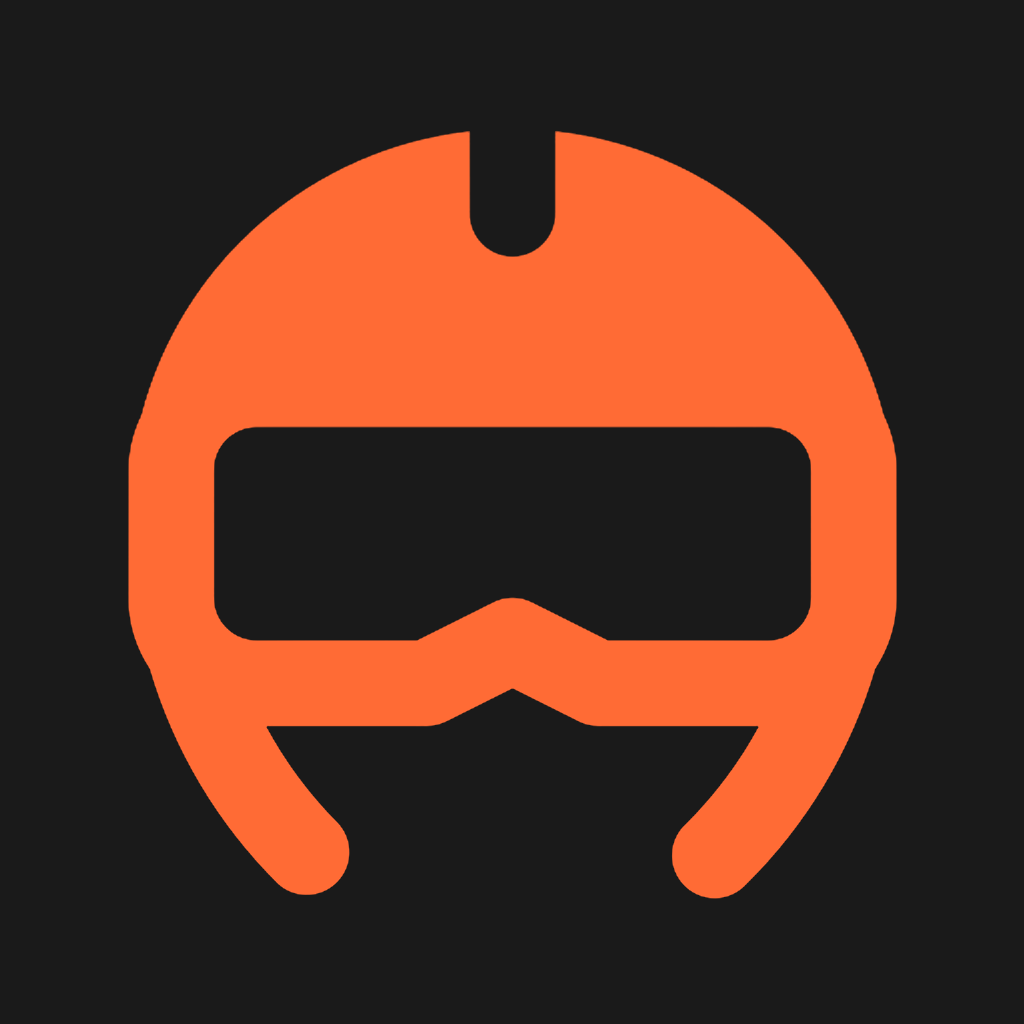
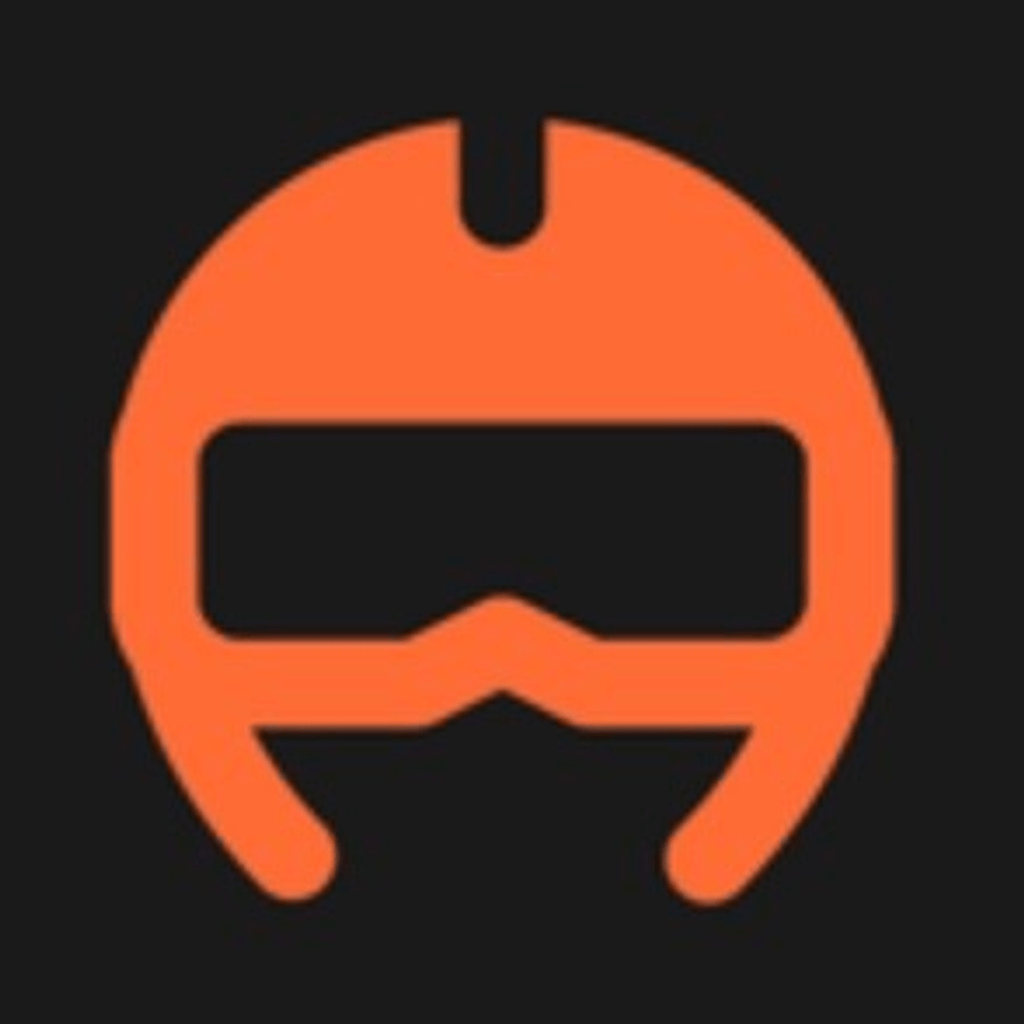
auto-commit for b76663bf-5e23-4009-99b3-912f2e94e67f

diff --git a/frontend/process-logo.js b/frontend/process-logo.js
@@ -1,48 +1,62 @@
 const sharp = require('sharp');
+const path = require('path');
 
 async function processLogo() {
-  const inputPath = '/tmp/original-helmet.jpeg';
-  const outputPath = './assets/images/helmet-logo.png';
+  const inputPath = '/tmp/correct-helmet.jpeg';
+  const outputDir = './assets/images';
   
-  const size = 512;
-  const padding = 50;
+  // Read and get metadata
+  const image = sharp(inputPath);
+  const metadata = await image.metadata();
+  console.log('Original image:', metadata.width, 'x', metadata.height);
   
-  // Colors
-  const darkGrayBg = '#1A1A1A';
+  // Create high-quality PNG for the app (main logo)
+  await sharp(inputPath)
+    .resize(1024, 1024, { 
+      fit: 'cover',
+      kernel: sharp.kernel.lanczos3 // High quality resampling
+    })
+    .sharpen({ sigma: 1.0 }) // Slight sharpening for clarity
+    .png({ 
+      quality: 100,
+      compressionLevel: 9
+    })
+    .toFile(path.join(outputDir, 'helmet-logo.png'));
+  console.log('✅ Created helmet-logo.png (1024x1024)');
   
-  // Resize and colorize the helmet to orange
-  const resizedHelmet = await sharp(inputPath)
-    .resize(size - padding * 2, size - padding * 2, { fit: 'contain', background: { r: 0, g: 0, b: 0, alpha: 0 } })
-    .negate({ alpha: false })
-    .tint({ r: 255, g: 107, b: 53 }) // Orange #FF6B35
-    .png()
-    .toBuffer();
+  // iOS App Icon (1024x1024 for App Store)
+  await sharp(inputPath)
+    .resize(1024, 1024, { fit: 'cover', kernel: sharp.kernel.lanczos3 })
+    .sharpen({ sigma: 0.8 })
+    .png({ quality: 100 })
+    .toFile(path.join(outputDir, 'icon.png'));
+  console.log('✅ Created icon.png (1024x1024) for iOS');
   
-  // Create dark gray background
-  const background = await sharp({
-    create: {
-      width: size,
-      height: size,
-      channels: 4,
-      background: darkGrayBg
-    }
-  })
-  .png()
-  .toBuffer();
+  // Android Adaptive Icon (1024x1024)
+  await sharp(inputPath)
+    .resize(1024, 1024, { fit: 'cover', kernel: sharp.kernel.lanczos3 })
+    .sharpen({ sigma: 0.8 })
+    .png({ quality: 100 })
+    .toFile(path.join(outputDir, 'adaptive-icon.png'));
+  console.log('✅ Created adaptive-icon.png (1024x1024) for Android');
   
-  // Composite helmet on background (no border)
-  await sharp(background)
-    .composite([
-      {
-        input: resizedHelmet,
-        top: padding,
-        left: padding,
-      }
-    ])
-    .png()
-    .toFile(outputPath);
+  // Favicon (192x192)
+  await sharp(inputPath)
+    .resize(192, 192, { fit: 'cover', kernel: sharp.kernel.lanczos3 })
+    .sharpen({ sigma: 1.2 })
+    .png({ quality: 100 })
+    .toFile(path.join(outputDir, 'favicon.png'));
+  console.log('✅ Created favicon.png (192x192)');
   
-  console.log('Logo created successfully:', outputPath);
+  // Splash icon (smaller for splash screen, 288x288)
+  await sharp(inputPath)
+    .resize(288, 288, { fit: 'cover', kernel: sharp.kernel.lanczos3 })
+    .sharpen({ sigma: 1.0 })
+    .png({ quality: 100 })
+    .toFile(path.join(outputDir, 'splash-icon.png'));
+  console.log('✅ Created splash-icon.png (288x288)');
+  
+  console.log('\n🎉 All icons generated successfully!');
 }
 
 processLogo().catch(console.error);
